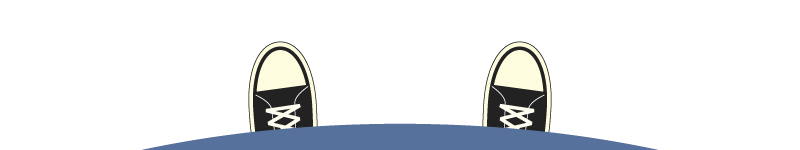
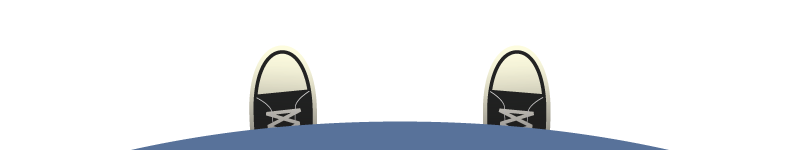
load screen

Changed region(s): [[0.1562, 0.2667, 0.8438, 1.0], [0.375, 0.4, 0.4062, 0.4267]]

diff --git a/js/classes.js b/js/classes.js
@@ -38,22 +38,22 @@ class MachineFront {
     }
 }
 
-// class CoverFist {
-//     constructor(){
-//         this.x = 0
-//         this.y = 0
-//         this.width = $canvas.width
-//         this.height = $canvas.height+250
-//         this.img = new Image()
-//         this.img.src = "assets/coverSquare.png"
-//         this.img.onload = () => {
-//             this.draw()
-//         }
-//     }
-//     draw(){
-//         ctx.drawImage(this.img, this.x, this.y, this.width, this.height)
-//     }
-// }
+class CoverFist {
+    constructor(){
+        this.x = 0
+        this.y = 50
+        this.width = $canvas.width
+        this.height = $canvas.height+250
+        this.img = new Image()
+        this.img.src = "assets/coverSquare.png"
+        this.img.onload = () => {
+            this.draw()
+        }
+    }
+    draw(){
+        ctx.drawImage(this.img, this.x, this.y, this.width, this.height)
+    }
+}
 
 class Hammer {
     constructor(){
@@ -151,7 +151,7 @@ class Persona {
         this.height = 150 //CAMBIAR
         this.width = 800 //CAMBIAR
         this.x = x
-        this.y = ($canvas.height - this.height) + 15
+        this.y = $canvas.height - this.height
         this.velX = 6
         this.img = new Image()
         this.img.src = "assets/persona.png"
@@ -176,6 +176,19 @@ class Persona {
         }
         ctx.drawImage(this.img, this.x, this.y, this.width, this.height)
     } 
+}
+
+class LoadScreen {
+    constructor(){
+        this.img = new Image()
+        this.img.src = "assets/startScreen.png"
+        this.img.onload = () => {
+            this.draw()
+        }
+    }
+    draw(){
+        ctx.drawImage(this.img, 0, 0, $canvas.width, $canvas.height)
+    }
 }
    
 class Hamster {
@@ -274,6 +287,7 @@ class TeclaRight {
 
 //Instances 
 
+const loadScreen = new LoadScreen()
 const hamsterLeft = new Hamster(110) 
 const hamsterCenter = new Hamster(312)
 const hamsterRight = new Hamster(515)
@@ -285,3 +299,5 @@ const teclaLeft = new TeclaLeft(110)
 const teclaCenter = new TeclaCenter(312)
 const teclaRight = new TeclaRight(517)
 const hammer = new Hammer ()
+const coverFist = new CoverFist()
+

diff --git a/style.css b/style.css
@@ -2,7 +2,7 @@
 
 html {
     font-family: 'Press Start 2P', cursive;
-    background-color: #0A0A0A;
+    background-color: #0A0E16;
     text-align: center;
 }
 
@@ -21,9 +21,9 @@ body #canvas {
 body button {
     font-size: 20px;
     font-family: 'Press Start 2P', cursive;
-    color: yellow;
+    color: white;
     text-align: center;
-    background-color: red;
+    background-color: blue;
     cursor: pointer;
     border: none;
     padding: 10px;
@@ -33,6 +33,11 @@ body button {
 h2 {
     color: white;
 }
-footer p {
-    color: yellow
+footer a {
+    text-decoration: none;
+    color: white;
+}
+
+a:hover {
+    color: cyan;
 }

diff --git a/js/main-functions.js b/js/main-functions.js
@@ -199,8 +199,9 @@ function gameOver() {
     ctx.textAlign = "center"
     ctx.fillText("GAME OVER", $canvas.width/2, $canvas.height/2)
     ctx.font = `30px "${FONT_NAME}"`
-    ctx.fillText("Refresh to try again", $canvas.width/2, $canvas.height/2+50)
-}
+    ctx.fillText("Refresh to try again", $canvas.width/2, $canvas.height/2+100)
+  } 
+
 WebFont.load({
     google: {families: [FONT_NAME]},
     active: renderText

diff --git a/index.html b/index.html
@@ -19,7 +19,7 @@
         <script type="text/javascript" src="js/index.js"></script>
     </body>
     <footer>
-        <p>Carlos Riojas</p>
-        <p>Ayhan Konar</P>
+        <p><a href="https://www.linkedin.com/in/carlos-riojas-de-los-santos-24156b20/">Carlos Riojas</a></p>
+        <p><a href="https://www.linkedin.com/in/ayhankonar">Ayhan Konar</a></P>
     </footer>
 </html>

diff --git a/js/index.js b/js/index.js
@@ -9,10 +9,10 @@ function updateGame() {
     machine.draw()
     hamsterLeft.draw()
     hamsterCenter.draw()
+    coverFist.draw()
     hamsterRight.draw()
     checkCollision()
     fist.draw()
-    // coverFist.draw()
     machineFront.draw()
     teclaLeft.draw()
     teclaCenter.draw()

diff --git a/js/canvas-setup-execute.js b/js/canvas-setup-execute.js
@@ -5,6 +5,7 @@ const $canvas = document.querySelector('canvas')
 const ctx = $canvas.getContext('2d')
 
 window.onload = () => {
+    loadScreen.draw()
     document.getElementById("start-button").onclick = () => {
         startGame()
     }
